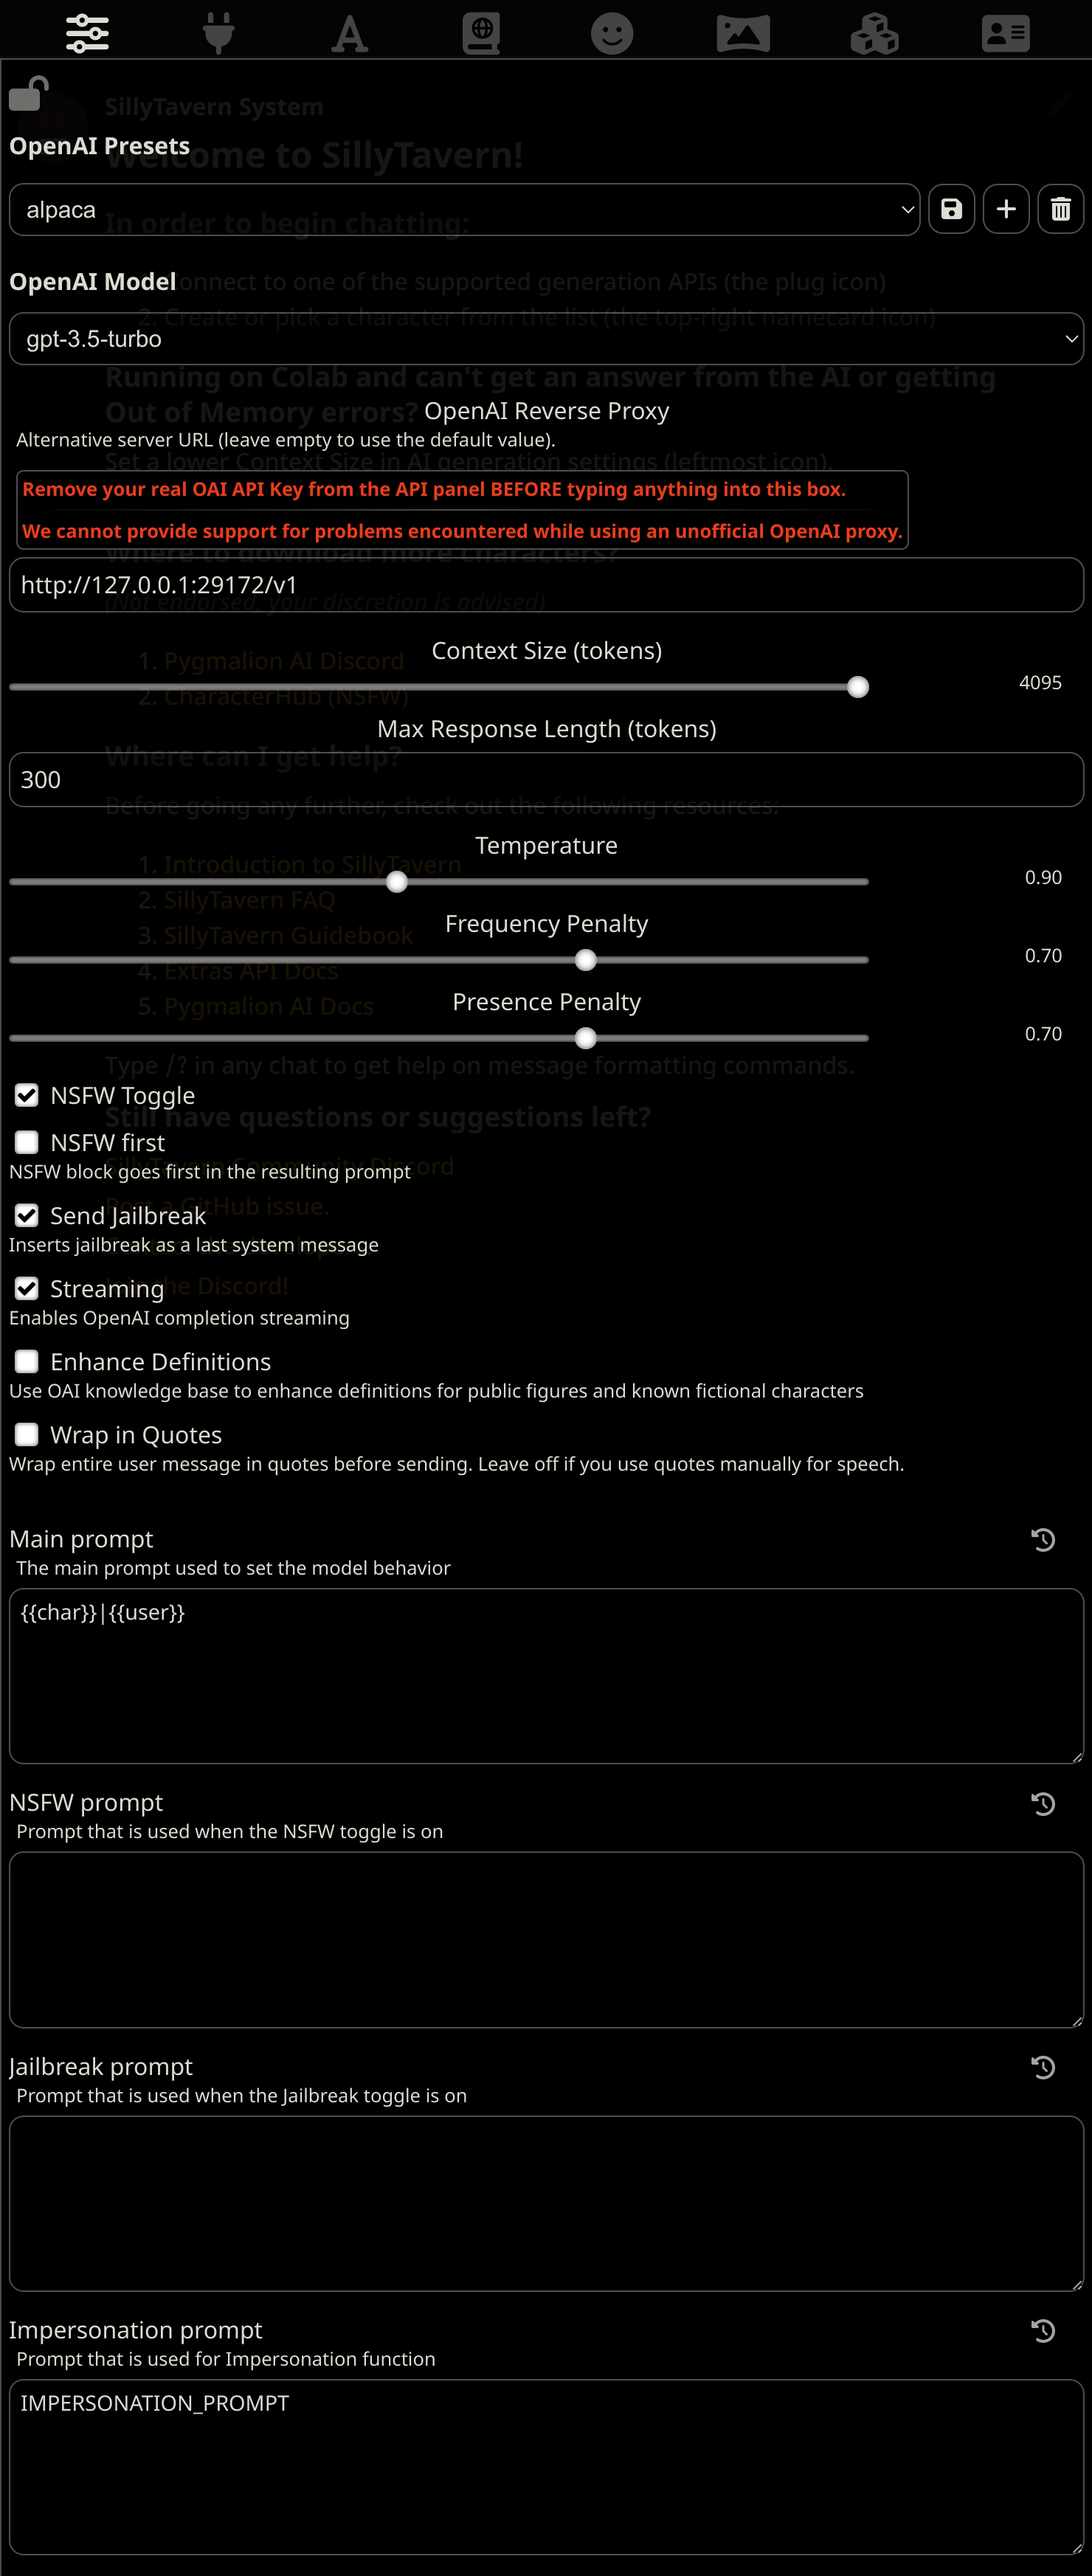
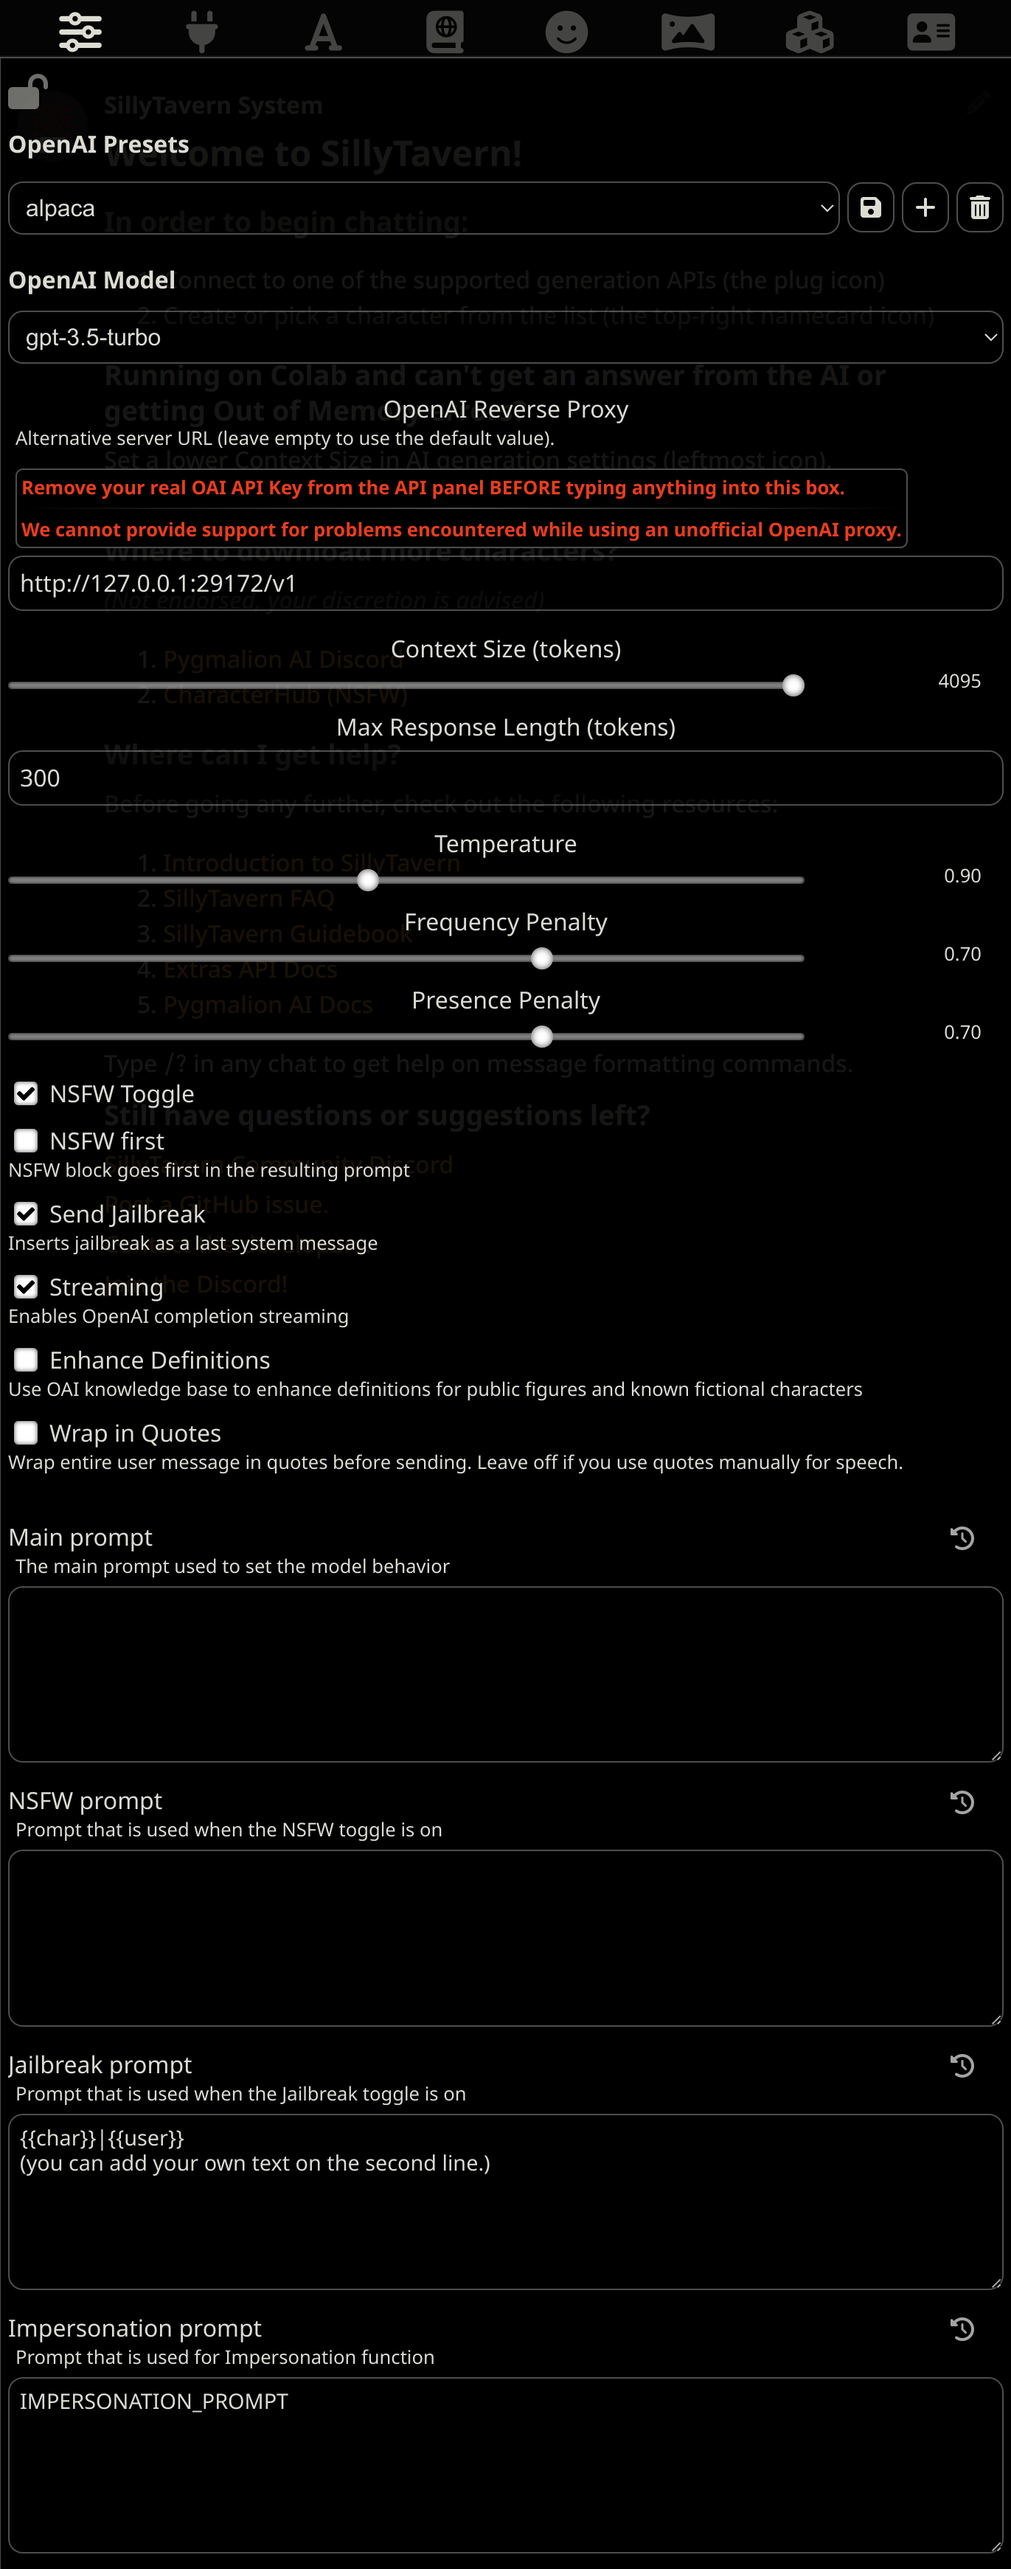
update readme

diff --git a/README.md b/README.md
@@ -28,7 +28,7 @@ npm install
 node index.mjs
 ```
 
-You can replace the last line with this if you want it to reload automatically when editing the file:
+You can replace the last line with this if you want it to reload automatically when editing any file:
 
 ```sh
 npx nodemon index.mjs
@@ -49,8 +49,8 @@ After pressing the second button of the top panel, select "OpenAI" as the API an
 Press the first button and select the "alpaca" preset. If it doesn't exist, create one. In older versions, the button might be at the bottom of that panel or to the right of the select box.
 
 - Scroll up and set "OpenAI Reverse Proxy" to http://127.0.0.1:29172/v1
-- Change Main Prompt to "{{char}}|{{user}}". If you want to add your own text there, do it on the second line.
-- Delete the default NSFW Prompt and Jailbreak Prompt.
+- Delete the default Main Prompt and NSFW Prompt.
+- Change Jailbreak Prompt to "{{char}}|{{user}}". If you want to add your own text there, do it on the second line.
 - Change Impersonation Prompt to "IMPERSONATION_PROMPT".
 - On the checkboxes above, enable NSFW Toggle.
 - Enable Streaming too if you want that.
@@ -90,6 +90,11 @@ Ooba needs to be started with --extensions api and the streaming API was added A
 ![rp example](./img/example.jpg)
 
 ## Changelog
+
+### 2023-05-02
+- Reverted "add support to set the character names in the main prompt." That prompt is not sent when using impersonation. Changed it back to the first line of the Jailbreak.
+- Added an option to include the character bias in the final text generated. It's enabled by default.
+- Fixed how the singleline prompt format finds who sent the last message and added an option to customize the "[says nothing]" message.
 
 ### 2023-05-02
 - Added Horde support, see config.default.mjs.
